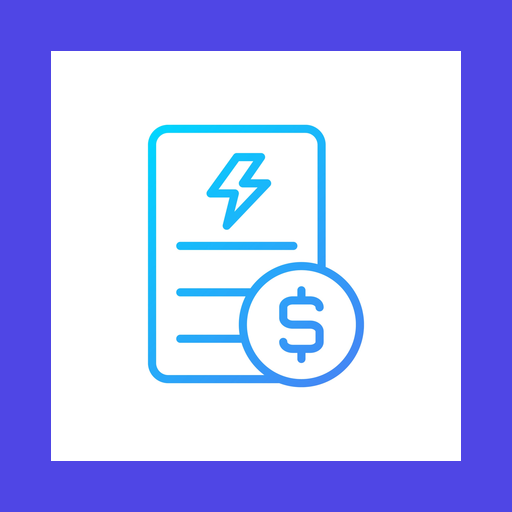
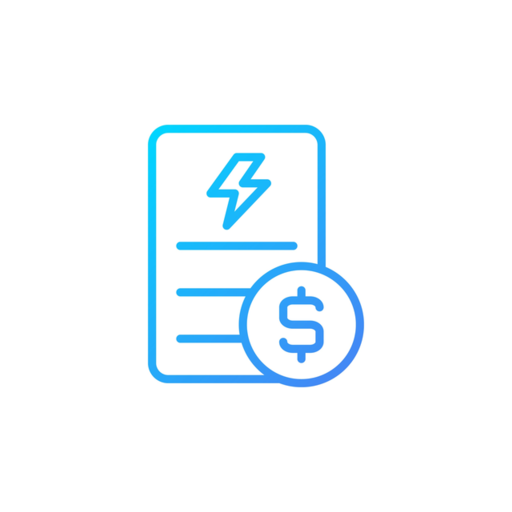
chore: update PWA configuration and cache strategy
- Add maskable icons to manifest and cache
- Use relative paths for PWA assets
- Implement network-first service worker strategy
- Update build script to preserve static assets

diff --git a/public/service-worker.js b/public/service-worker.js
@@ -1,4 +1,4 @@
-const CACHE_NAME = 'bill-app-cache-v5';
+const CACHE_NAME = 'bill-app-cache-v6';
 const urlsToCache = [
   './',
   './index.html',
@@ -6,17 +6,24 @@ const urlsToCache = [
   './icon.png',
   './pwa-192x192.png',
   './pwa-512x512.png',
+  './pwa-maskable-192x192.png',
+  './pwa-maskable-512x512.png',
   './apple-touch-icon.png'
 ];
 
-// Install Service Worker and Cache files
+// Install Service Worker with resilient per-file caching
 self.addEventListener('install', event => {
+  self.skipWaiting();
   event.waitUntil(
-    caches.open(CACHE_NAME)
-      .then(cache => {
-        return cache.addAll(urlsToCache);
-      })
-      .then(() => self.skipWaiting())
+    caches.open(CACHE_NAME).then(async cache => {
+      for (const url of urlsToCache) {
+        try {
+          await cache.add(url);
+        } catch (e) {
+          console.warn('Failed to cache resource during install:', url, e);
+        }
+      }
+    })
   );
 });
 
@@ -31,23 +38,37 @@ self.addEventListener('activate', event => {
   );
 });
 
-// Serve Cached files when Offline for same-origin static requests only
+// Serve requests: Network first with cache fallback
 self.addEventListener('fetch', event => {
   if (event.request.method !== 'GET') return;
-  
+
   const url = new URL(event.request.url);
-  // Do not intercept external requests (Firebase, Google Auth, CDNs)
+  // Do not intercept external requests (Firebase, Google Auth, fonts)
   if (url.origin !== self.location.origin) {
     return;
   }
 
   event.respondWith(
-    caches.match(event.request)
+    fetch(event.request)
       .then(response => {
-        if (response) {
-          return response;
+        if (response && response.status === 200 && response.type === 'basic') {
+          const responseToCache = response.clone();
+          caches.open(CACHE_NAME).then(cache => {
+            cache.put(event.request, responseToCache);
+          });
         }
-        return fetch(event.request);
+        return response;
+      })
+      .catch(() => {
+        return caches.match(event.request).then(cachedResponse => {
+          if (cachedResponse) {
+            return cachedResponse;
+          }
+          if (event.request.mode === 'navigate') {
+            return caches.match('./index.html');
+          }
+          return new Response('অফলাইন মোড', { status: 503, statusText: 'Offline' });
+        });
       })
   );
 });

diff --git a/index.html b/index.html
@@ -9,16 +9,16 @@
     <meta property="og:description" content="Electricity Bill - বিদ্যুৎ বিল ও গ্রাহকের তথ্য সহজে ট্র্যাক এবং পরিচালনা করার অ্যাপ্লিকেশন">
     
     <!-- PWA Links & Meta -->
-    <link rel="manifest" href="manifest.json">
+    <link rel="manifest" href="./manifest.json">
     <meta name="theme-color" content="#4F46E5">
     <meta name="mobile-web-app-capable" content="yes">
     <meta name="apple-mobile-web-app-capable" content="yes">
     <meta name="apple-mobile-web-app-status-bar-style" content="default">
     <meta name="apple-mobile-web-app-title" content="বিদ্যুৎ বিল">
-    <link rel="icon" type="image/png" sizes="192x192" href="pwa-192x192.png">
-    <link rel="icon" type="image/png" sizes="512x512" href="pwa-512x512.png">
-    <link rel="icon" type="image/png" href="icon.png">
-    <link rel="apple-touch-icon" href="apple-touch-icon.png">
+    <link rel="icon" type="image/png" sizes="192x192" href="./pwa-192x192.png">
+    <link rel="icon" type="image/png" sizes="512x512" href="./pwa-512x512.png">
+    <link rel="icon" type="image/png" href="./icon.png">
+    <link rel="apple-touch-icon" href="./apple-touch-icon.png">
 
     <!-- Noto Sans Bengali font -->
     <link rel="preconnect" href="https://fonts.googleapis.com">
@@ -31,7 +31,9 @@
     <script>
       if ('serviceWorker' in navigator) {
         window.addEventListener('load', () => {
-          navigator.serviceWorker.register('./service-worker.js').catch(err => console.log(err));
+          navigator.serviceWorker.register('./service-worker.js', { scope: './' })
+            .then(reg => console.log('SW Registered:', reg.scope))
+            .catch(err => console.warn('SW Registration Error:', err));
         });
       }
     </script>
